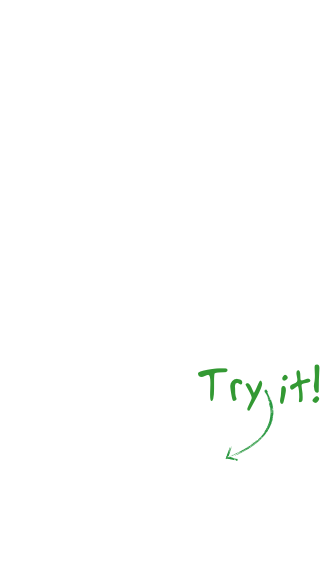
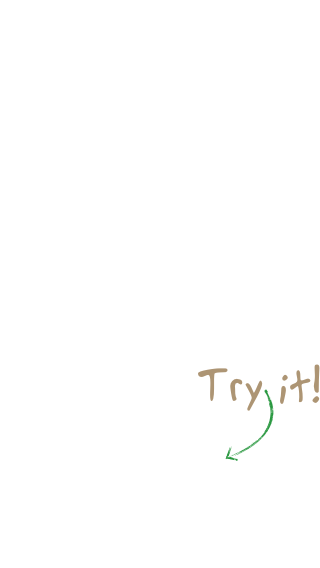
First Rap Theme

Changed region(s): [[0.875, 0.6285, 1.0, 0.7183], [0.625, 0.6285, 0.7188, 0.7183], [0.7188, 0.6585, 0.8125, 0.7183]]

diff --git a/www/css/main.less b/www/css/main.less
@@ -368,7 +368,7 @@ canvas {
 
 .btn {
 	//-webkit-border-radius: 4px;
-	border: 1px solid #339933;//rgba(255,255,255,0.2);
+	border: 1px solid #AD9574;//rgba(255,255,255,0.2);
 	text-decoration: none;
 	//text-shadow: 0 -1px 0 rgba(0, 0, 0, 0.25);
 	padding: 10px 25px;
@@ -379,7 +379,7 @@ canvas {
 	cursor: pointer;
 	border-radius: 10px;
 	text-align: center;
-	color: #339933;
+	color: #AD9574;
 	//background-color: rgba(255,255,255,0.2);
 	//-webkit-appearance: button;
 }
@@ -425,7 +425,7 @@ canvas {
 	margin-left: -61px;
 	bottom: 20px;
 	padding: 25px;
-	background: #339933;
+	background: #AD9574;
 	color: white;
 }
 

diff --git a/www/css/main.css b/www/css/main.css
@@ -239,7 +239,7 @@ canvas {
   background-image: url(../img/tutor4.png);
 }
 .btn {
-  border: 1px solid #339933;
+  border: 1px solid #AD9574;
   text-decoration: none;
   padding: 10px 25px;
   margin-bottom: 0;
@@ -249,7 +249,7 @@ canvas {
   cursor: pointer;
   border-radius: 10px;
   text-align: center;
-  color: #339933;
+  color: #AD9574;
 }
 #demoBtn {
   float: right;
@@ -282,7 +282,7 @@ canvas {
   margin-left: -61px;
   bottom: 20px;
   padding: 25px;
-  background: #339933;
+  background: #AD9574;
   color: white;
 }
 #micHome {
